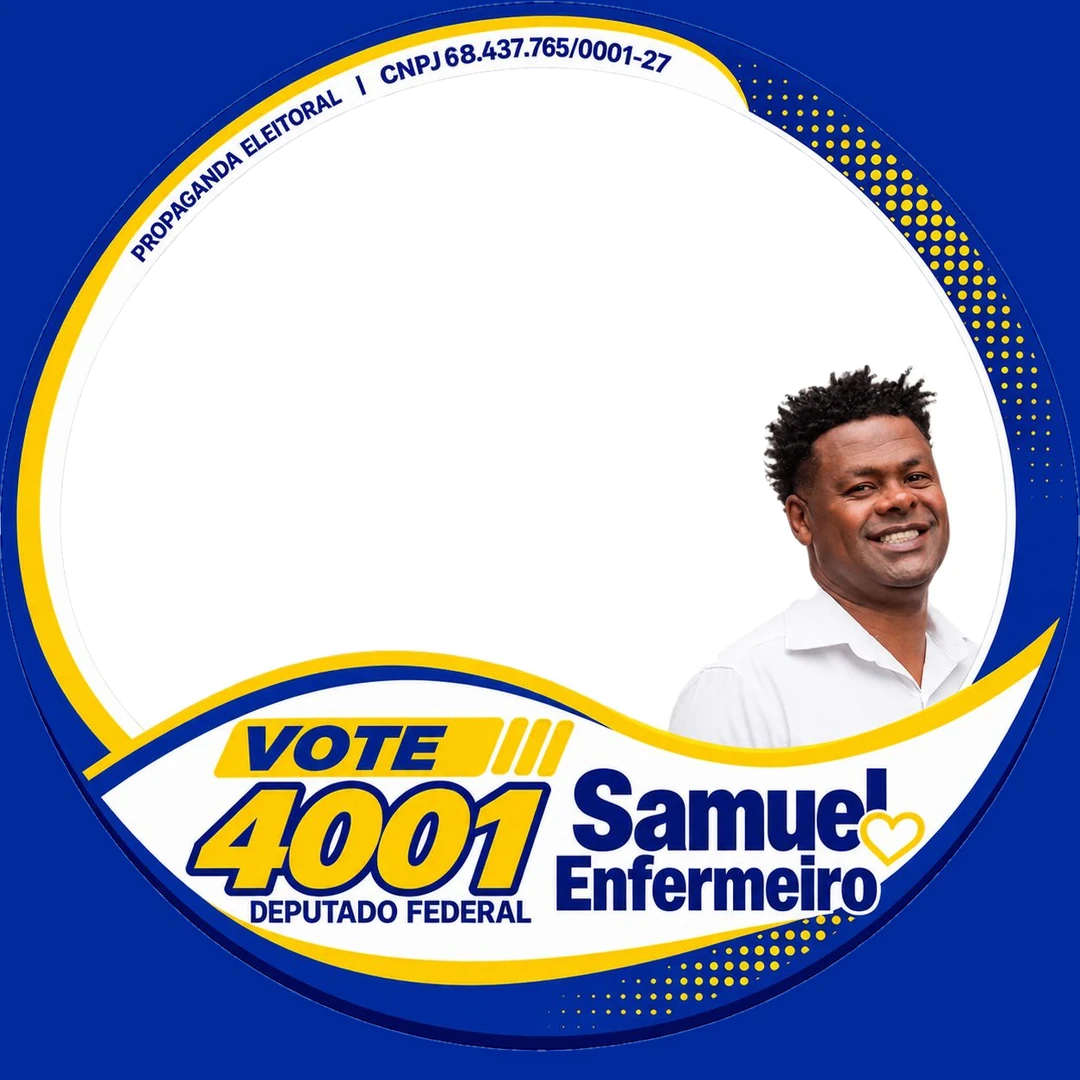
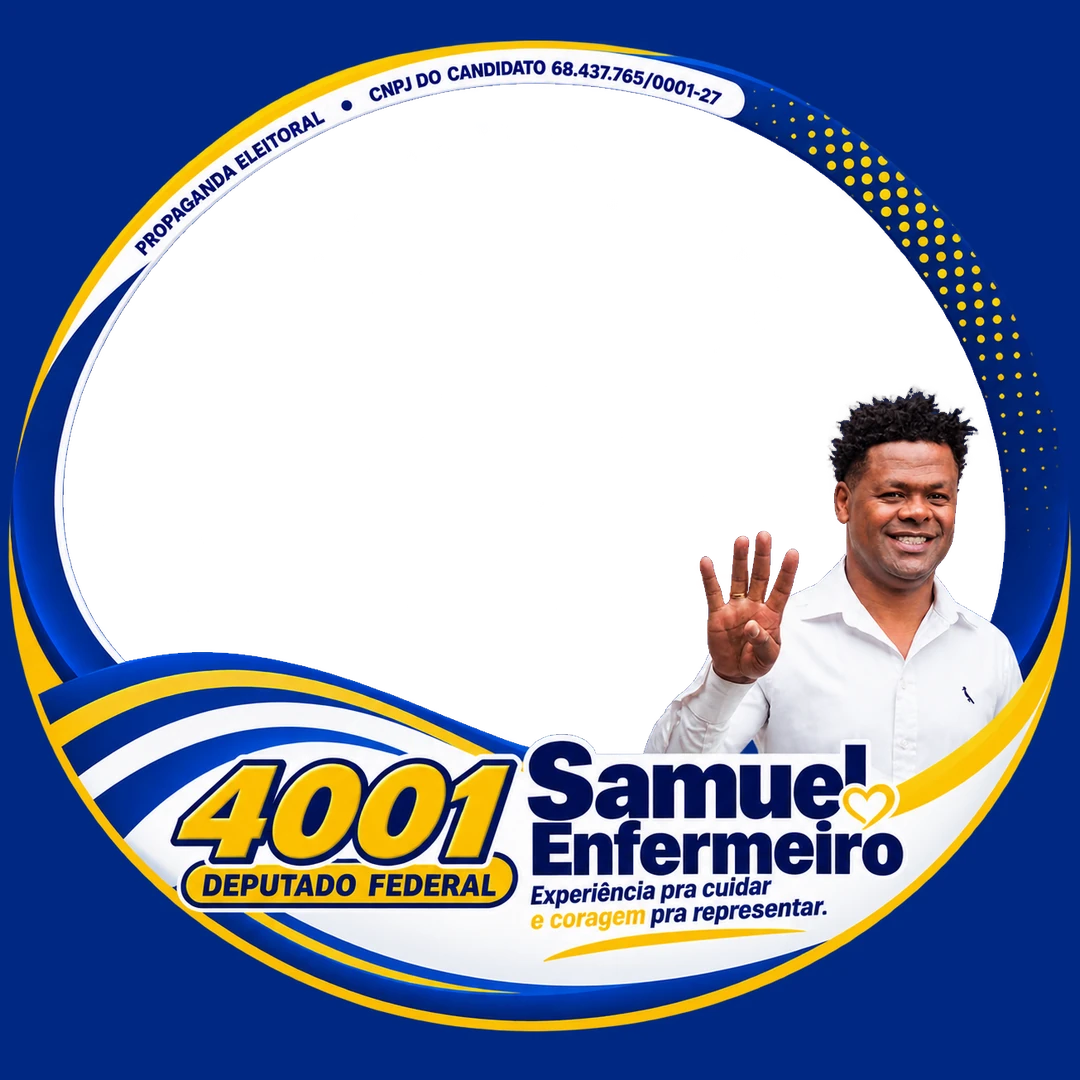
Moldura de perfil trocada pela arte nova, com alfa de verdade
A arte nova chegou como PNG com canal alfa, entao nao houve recorte a fazer:
a silhueta do candidato e a borda do vazado vieram prontas do arquivo, sem
serrilhado e sem halo. Some com toda a heuristica que era necessaria enquanto
a arte vinha achatada em JPEG.

O que o script faz agora e so deixar o quadro quadrado (foto de perfil e 1:1,
a arte vinha 1305x1206) e achatar o lado de fora sobre o azul da campanha,
para o arquivo baixado nao ter canto transparente.

O CNPJ ja vem correto na arte: 68.437.765/0001-27.

Cobertura do vazado verificada em 5 proporcoes: 0 px descoberto no zoom minimo.

diff --git a/index.html b/index.html
@@ -236,7 +236,7 @@
     <span class="estilos-rotulo">Escolha o formato</span>
     <div class="estilos-opcoes">
       <button type="button" class="estilo ativo" data-moldura="0" role="radio" aria-checked="true">
[2 lines of base64/hex data omitted]
         <span>Foto de perfil<small>WhatsApp e Instagram</small></span>
       </button>
       <button type="button" class="estilo" data-moldura="1" role="radio" aria-checked="false">
@@ -333,7 +333,7 @@
   // de cima e e o que a pessoa baixa — o que ela ve e o que ela leva.
   var MOLDURAS = [
     { nome: "Foto de perfil", W: 1080, H: 1080,
-      cx: 509, cy: 394, rx: 448, ry: 327, focoX: 509,
+      cx: 533, cy: 418, rx: 471, ry: 335, focoX: 533,
       arquivo: "samuel-enfermeiro-perfil.png", src: "assets/molduras/perfil-1x1.webp" },
     { nome: "Story", W: 900, H: 1600,
       cx: 449, cy: 709, rx: 450, ry: 517, focoX: 449,

diff --git a/ferramentas/perfil.py b/ferramentas/perfil.py
@@ -1,218 +1,87 @@
-"""Reconstroi a moldura 1:1 a partir da arte de origem do designer.
+"""Monta a moldura de perfil a partir da arte nova do designer.
 
-Tres coisas acontecem aqui:
-  1. o CNPJ vem errado na arte (58.437.765); o digito e corrigido transplantando
-     o proprio "6" da mesma linha, deslocado ao longo do arco;
-  2. o miolo e vazado por preenchimento a partir do centro;
-  3. a borda do vazado e alisada — a arte veio de JPEG e a linha fina que separa
-     o miolo da faixa branca fica ruidosa, deixando dentes na borda.
+Essa arte veio como PNG com alfa de verdade, entao nao ha recorte a fazer: o
+trabalho e so deixar o quadro quadrado (foto de perfil e 1:1) e pintar o lado
+de fora com o azul da campanha, como a Gislaine pediu, para o arquivo baixado
+nao ter canto transparente.
 """
-from PIL import Image, ImageFilter
-import os, math
+from PIL import Image
+import os
 
-D=os.path.expanduser("~/Downloads/")
-ORIG=D+"WhatsApp Image 2026-08-27 at 11.39.34.jpeg"
-AZUL=(2,42,156)
-CX,CY,R=625.0,550.3,528.5          # circulo do texto em arco
-A0=math.radians(-190); R0=468.0; R1=588.0
-SW=int(round(R*(math.radians(10)-A0))); SH=int(round(R1-R0))
-DX,DY=121,2                        # deslocamento do "6" ate a casa do "5"
-CAIXA_SAMUEL=(690,250)             # a partir daqui o alisamento e leve
+ORIG=os.path.expanduser("~/Downloads/ChatGPT Image 1 de set. de 2026, 17_10_07.png")
+SAIDA=1080
+im=Image.open(ORIG).convert("RGBA")
+W,H=im.size
+L=max(W,H)
+quadro=Image.new("RGBA",(L,L),(0,0,0,0))
+dx,dy=(L-W)//2,(L-H)//2
+quadro.paste(im,(dx,dy))
+px=quadro.load()
 
-im=Image.open(ORIG).convert("RGB"); W,H=im.size; px=im.load()
-def amostra(fx,fy):
-    x0,y0=int(math.floor(fx)),int(math.floor(fy)); dx,dy=fx-x0,fy-y0
-    o=[0.0,0.0,0.0]
-    for j in (0,1):
-        for i in (0,1):
-            w=(dx if i else 1-dx)*(dy if j else 1-dy)
-            p=px[min(max(x0+i,0),W-1),min(max(y0+j,0),H-1)]
-            for k in range(3): o[k]+=w*p[k]
-    return o
+# azul do anel, para preencher o lado de fora
+from collections import Counter
+c=Counter()
+for y in range(0,L,3):
+    for x in range(0,L,3):
+        r,g,b,a=px[x,y]
+        if a>240 and b>90 and b-r>50 and r<90: c[(r,g,b)]+=1
+AZUL=c.most_common(1)[0][0]
+print("azul da campanha: %s"%(AZUL,))
 
-# ---- 1) CNPJ -------------------------------------------------------------
-def tinta(p): return p[2]>60 and p[2]-p[0]>35 and p[0]<125 and p[1]<125
-ink=bytearray(SW*SH)
-for sy in range(SH):
-    rr=R0+sy
-    for sx in range(SW):
-        a=A0+(sx+0.5)/R
-        if tinta(amostra(CX+rr*math.cos(a), CY+rr*math.sin(a))): ink[sy*SW+sx]=1
-def componente(x0,y0):
-    v=bytearray(SW*SH); pilha=[(x0,y0)]; saida=set()
-    while pilha:
-        x,y=pilha.pop(); j=y*SW+x
-        if v[j] or not ink[j]: continue
-        v[j]=1; saida.add((x,y))
-        for nx,ny in ((x-1,y),(x+1,y),(x,y-1),(x,y+1)):
-            if 0<=nx<SW and 0<=ny<SH and not v[ny*SW+nx] and ink[ny*SW+nx]: pilha.append((nx,ny))
-    return saida
-def semente(x0,x1,y0,y1):
-    for y in range(y0,y1+1):
-        for x in range(x0,x1+1):
-            if ink[y*SW+x]: return (x,y)
-    raise SystemExit("glifo nao encontrado")
-c5=componente(*semente(805,822,16,37))
-c6=componente(*semente(927,942,18,39))
-def dilata(s,k):
-    o=set()
-    for x,y in s:
-        for j in range(-k,k+1):
-            for i in range(-k,k+1):
-                if i*i+j*j<=k*k+1: o.add((x+i,y+j))
-    return o
-outros=set()
-for y in range(SH):
-    for x in range(SW):
-        if ink[y*SW+x] and (x,y) not in c5 and (x,y) not in c6: outros.add((x,y))
-proibido=dilata(outros,1)
-m5=dilata(c5,2)-proibido; m6=dilata(c6,2)-proibido
-print("CNPJ: %d px do '5' apagados, %d px do '6' colados"%(len(m5),len(m6)))
-alvo=m5|{(x-DX,y-DY) for x,y in m6}
-xs=[p[0] for p in alvo]; ys=[p[1] for p in alvo]
-px0,px1,py0,py1=W,0,H,0
-for sx in (min(xs)-2,max(xs)+2):
-    for sy in (min(ys)-2,max(ys)+2):
-        a=A0+(sx+0.5)/R; rr=R0+sy
-        X=CX+rr*math.cos(a); Y=CY+rr*math.sin(a)
-        px0=min(px0,int(X)-3); px1=max(px1,int(X)+4)
-        py0=min(py0,int(Y)-3); py1=max(py1,int(Y)+4)
-np_=im.load()
-troca={}
-for Y in range(py0,py1):
-    for X in range(px0,px1):
-        dx=X+0.5-CX; dy=Y+0.5-CY
-        rr=math.hypot(dx,dy); a=math.atan2(dy,dx)
-        while a<A0: a+=2*math.pi
-        sx=int(round((a-A0)*R-0.5)); sy=int(round(rr-R0))
-        if (sx+DX,sy+DY) in m6:
-            a2=a+DX/R; r2=rr+DY
-            troca[(X,Y)]=tuple(int(round(v)) for v in amostra(CX+r2*math.cos(a2), CY+r2*math.sin(a2)))
-        elif (sx,sy) in m5:
-            troca[(X,Y)]=(255,255,255)
-for k,v in troca.items(): np_[k[0],k[1]]=v
-
-# ---- 2) vazado -----------------------------------------------------------
-def branco(p,t=248): return p[0]>=t and p[1]>=t and p[2]>=t
-def flood(sementes,pred):
-    v=bytearray(W*H); pilha=list(sementes)
+def flood(sementes):
+    v=bytearray(L*L); pilha=[s for s in sementes]
     while pilha:
         x,y=pilha.pop()
-        if v[y*W+x] or not pred(px[x,y]): continue
+        if v[y*L+x] or px[x,y][3]>=128: continue
         xi=x
-        while xi>=0 and not v[y*W+xi] and pred(px[xi,y]): xi-=1
+        while xi>=0 and not v[y*L+xi] and px[xi,y][3]<128: xi-=1
         xi+=1
         xf=x
-        while xf<W and not v[y*W+xf] and pred(px[xf,y]): xf+=1
+        while xf<L and not v[y*L+xf] and px[xf,y][3]<128: xf+=1
         xf-=1
-        for xx in range(xi,xf+1): v[y*W+xx]=1
+        for xx in range(xi,xf+1): v[y*L+xx]=1
         for ny in (y-1,y+1):
-            if 0<=ny<H:
+            if 0<=ny<L:
                 xx=xi
                 while xx<=xf:
-                    if not v[ny*W+xx] and pred(px[xx,ny]):
+                    if not v[ny*L+xx] and px[xx,ny][3]<128:
                         pilha.append((xx,ny))
-                        while xx<=xf and pred(px[xx,ny]): xx+=1
+                        while xx<=xf and px[xx,ny][3]<128: xx+=1
                     xx+=1
     return v
-dentro=flood([(W//2,H//2)],branco)
-fora=flood([(0,0),(W-1,0),(0,H-1),(W-1,H-1)],lambda p: min(p)>=170)
-assert not fora[(H//2)*W+W//2] and not dentro[0], "os preenchimentos se encontraram"
+buraco=flood([(L//2,L//2)])
+fora=flood([(0,0),(L-1,0),(0,L-1),(L-1,L-1)])
+assert not fora[(L//2)*L+L//2] and not buraco[0], "buraco e lado de fora se encontraram"
 
-def como_imagem(v):
-    m=Image.new("L",(W,H),0); mp=m.load()
-    for y in range(H):
-        for x in range(W):
-            if v[y*W+x]: mp[x,y]=255
-    return m
+# tudo que nao e o buraco vai para cima do azul, opaco
+n=0
+for y in range(L):
+    for x in range(L):
+        if buraco[y*L+x]: continue
+        r,g,b,a=px[x,y]
+        if a==255: continue
+        f=a/255.0
+        px[x,y]=(int(round(r*f+AZUL[0]*(1-f))),
+                 int(round(g*f+AZUL[1]*(1-f))),
+                 int(round(b*f+AZUL[2]*(1-f))), 255)
+        n+=1
+print("pixels achatados sobre o azul: %d"%n)
 
-# ---- 3) borda e silhueta -------------------------------------------------
-import comum
-bruta=como_imagem(dentro).filter(ImageFilter.MinFilter(5)).filter(ImageFilter.MaxFilter(5))
-bp=bruta.load()
-sx=sy=0; n=0
-for y in range(H):
-    for x in range(W):
-        if bp[x,y]>128: sx+=x; sy+=y; n+=1
-GX,GY=float(sx)/n,float(sy)/n
-def amarelo(p): return p[0]>195 and 140<p[1]<235 and p[2]<110
-def azul(p):    return p[2]>95 and p[2]-p[0]>55 and p[0]<110
-def fio(p):     return 150<=min(p)<248 and max(p)-min(p)<=22
-raio=comum.traca_borda(px,W,H,GX,GY,amarelo,azul,fio,gap=7.0)
-liso=comum.alisa(raio)
-d=[abs(a-b) for a,b in zip(raio,liso)]
-print("borda tracada: ondulacao media %.2f px, maxima %.2f px"%(sum(d)/len(d),max(d)))
-buraco=comum.mascara_do_raio(liso,W,H,GX,GY); hp=buraco.load()
-bin_buraco=bytearray(W*H); sil=bytearray(W*H)
-for y in range(H):
-    for x in range(W):
-        if hp[x,y]>128:
-            if bp[x,y]>128: bin_buraco[y*W+x]=1
-            else: sil[y*W+x]=1
-def fundo_exato(p): return min(p)>=253
-resgatados=0
-for y in range(H):
-    for x in range(W):
-        i=y*W+x
-        if sil[i] and fundo_exato(px[x,y]): sil[i]=0; resgatados+=1
-print("bolsoes recuperados: %d px"%resgatados)
-maior=comum.maior_pedaco(sil,W,H)
-sil=bytearray(W*H)
-for j in maior: sil[j]=1
-for y in range(H):
-    for x in range(W):
-        if hp[x,y]>128 and not sil[y*W+x]: bin_buraco[y*W+x]=1
-print("silhueta do candidato: %d px"%len(maior))
-comidos=comum.come_halo(sil,bin_buraco,px,W,H,teto=18)
-print("halo claro removido em volta dele: %d px"%comidos)
-print("sobras claras soltas removidas: %d px"%comum.limpa_sobras(sil,bin_buraco,px,W,H,k=9))
-maior=comum.maior_pedaco(sil,W,H)
-sil=bytearray(W*H)
-for j in maior: sil[j]=1
-ms=Image.new("L",(W,H),0); sp=ms.load()
-for y in range(H):
-    for x in range(W):
-        if sil[y*W+x]: sp[x,y]=255
-# fechamento tapa os furinhos que o recorte abriu dentro dele
-ms=ms.filter(ImageFilter.MaxFilter(9)).filter(ImageFilter.MinFilter(9))
-ms=ms.filter(ImageFilter.MedianFilter(13)); sp=ms.load()
-# junta borda e silhueta ainda em preto e branco e suaviza uma vez so
-final=Image.new("L",(W,H),0); fp=final.load()
-for y in range(H):
-    for x in range(W):
-        fp[x,y]=255 if (hp[x,y]>128 and sp[x,y]<=128) else 0
-# so o vazado principal vale: pontinhos soltos viram furo na roupa dele
-bin_final=bytearray(W*H); fpl=final.load()
-for y in range(H):
-    for x in range(W):
-        if fpl[x,y]>128: bin_final[y*W+x]=1
-principal=comum.maior_pedaco(bin_final,W,H)
-final=Image.new("L",(W,H),0); fpl=final.load()
-for j in principal: fpl[j%W,j//W]=255
-final=final.filter(ImageFilter.GaussianBlur(0.8)); fp=final.load()
-mf=como_imagem(fora).filter(ImageFilter.GaussianBlur(1.0)).load()
-
-# ---- 4) saida ------------------------------------------------------------
-out=Image.new("RGBA",(W,H)); op=out.load()
-minx,maxx,miny,maxy=W,0,H,0; soma=0; somax=0
-for y in range(H):
-    for x in range(W):
-        r,g,b=px[x,y]
-        t=mf[x,y]/255.0
-        if t>0.004:
-            r=max(0,min(255,int(round(r+t*(AZUL[0]-255)))))
-            g=max(0,min(255,int(round(g+t*(AZUL[1]-255)))))
-            b=max(0,min(255,int(round(b+t*(AZUL[2]-255)))))
-        d=fp[x,y]
-        op[x,y]=(r,g,b,max(0,255-d))
-        if d>128:
-            minx=min(minx,x);maxx=max(maxx,x);miny=min(miny,y);maxy=max(maxy,y);soma+=1;somax+=x
-e=1080.0/W
-print("buraco 1080: cx=%.0f cy=%.0f rx=%.0f ry=%.0f centroideX=%.0f"
-      %(((minx+maxx)/2)*e,((miny+maxy)/2)*e,((maxx-minx+1)/2)*e,((maxy-miny+1)/2)*e,(float(somax)/soma)*e))
-fin=out.resize((1080,1080),Image.LANCZOS)
+fin=quadro.resize((SAIDA,SAIDA),Image.LANCZOS)
+fp=fin.load()
+minx,maxx,miny,maxy=SAIDA,0,SAIDA,0
+for y in range(SAIDA):
+    for x in range(SAIDA):
+        if fp[x,y][3]<128:
+            minx=min(minx,x);maxx=max(maxx,x);miny=min(miny,y);maxy=max(maxy,y)
+cx=(minx+maxx)//2; cy=(miny+maxy)//2
+rx=(maxx-minx+1)//2; ry=(maxy-miny+1)//2
+print("buraco %d: cx=%d cy=%d rx=%d ry=%d"%(SAIDA,cx,cy,rx,ry))
 fin.save("perfil-1x1.webp","WEBP",quality=90,method=6)
 print("%d KB"%(os.path.getsize("perfil-1x1.webp")//1024))
-v=Image.new("RGB",(1080,1080),(255,0,255)); v.paste(fin,(0,0),fin)
-v.crop((40,380,340,760)).resize((600,760),Image.LANCZOS).save("z-alfa-esq.png")
-v.crop((0,0,1080,1080)).resize((420,420)).save("z-todo.png")
+for tag,cor in (("escuro",(20,24,40,255)),("solido",(230,30,60,255))):
+    palco=Image.new("RGBA",(SAIDA,SAIDA),cor)
+    mk=Image.new("L",(SAIDA,SAIDA)); mk.putdata([255-p[3] for p in fin.getdata()])
+    palco.putalpha(mk)
+    out=Image.new("RGBA",(SAIDA,SAIDA),cor); out.alpha_composite(palco); out.alpha_composite(fin)
+    out.convert("RGB").resize((580,580),Image.LANCZOS).save("nv-%s.png"%tag)
